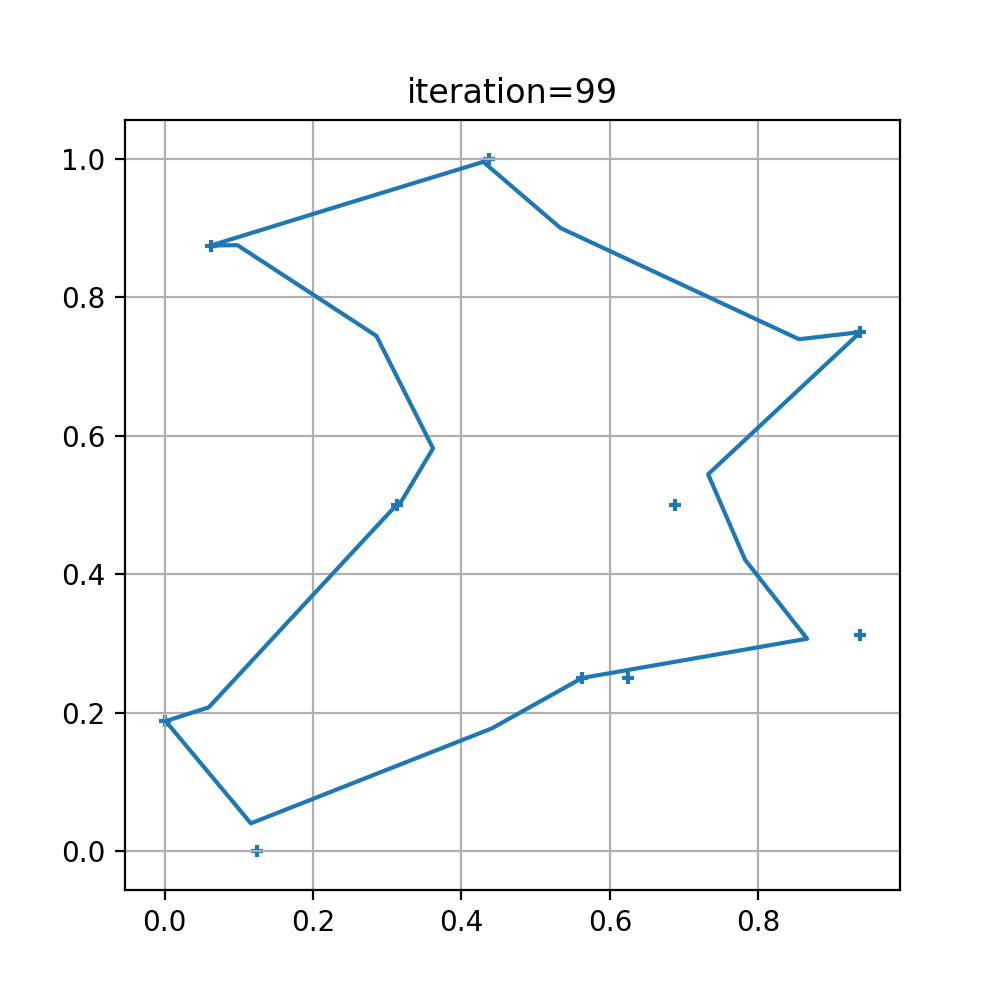
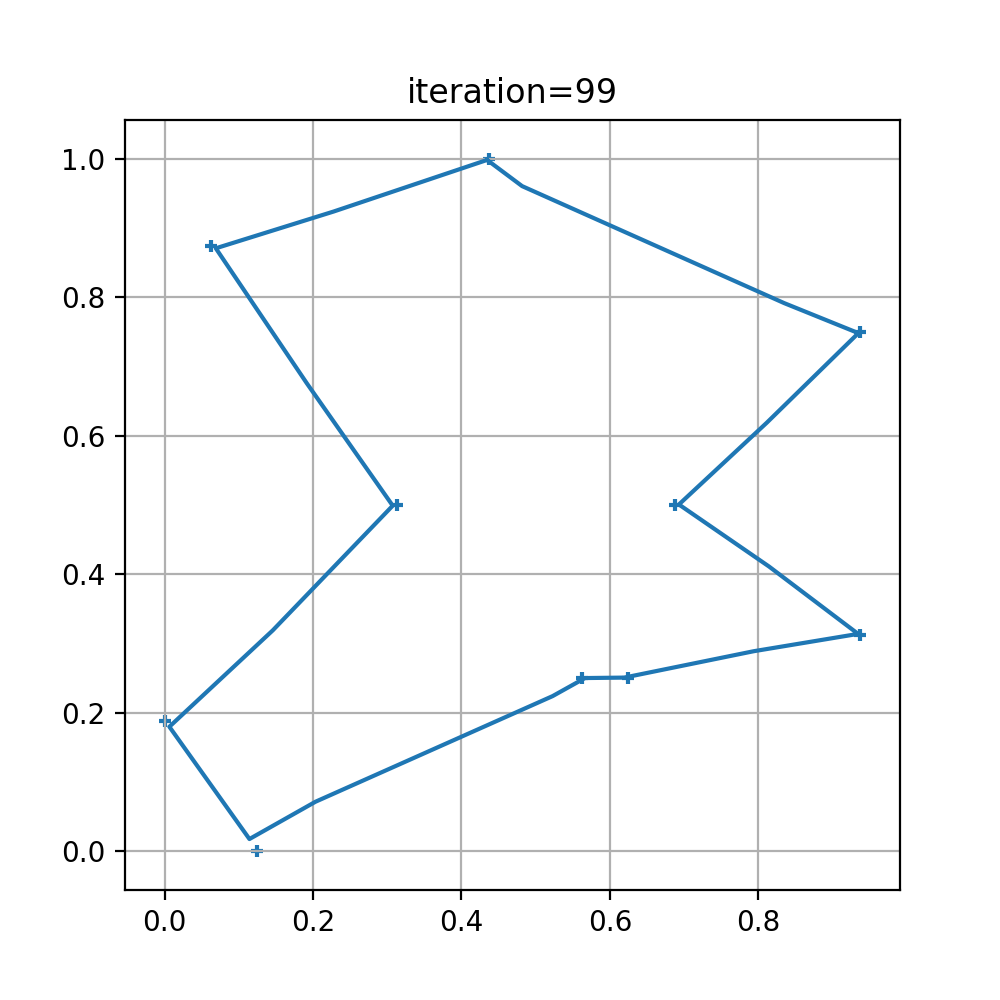
enhanced som g func

diff --git a/self_organizing_map.py b/self_organizing_map.py
@@ -6,18 +6,29 @@ import os
 window_size = 5
 dpi = 100
 node_radius = 0.1
+# b_init = 10
+# b_growth = 1.005
+# b_ceil = 1000
+
 b_init = 10
-b_growth = 1.005
-b_ceil = 1000
-mu = 1.0
+alpha = 0.03
+# b_ceil = 1000
+# mu = 1.0
+mu = 0.6
 iter_lim = 501
 record_moment = [1, 16, 31, 51, 101, 201, 301, 401, 501]
 record = True
 
 
-def g_func(djj_star, l, beta):
+# def g_func(djj_star, l, beta):
+#     if djj_star < l:
+#         return (1 - djj_star / l)**beta
+#     return 0.0
+
+
+def g_func(djj_star, l, g):
     if djj_star < l:
-        return (1 - djj_star / l)**beta
+        return np.exp(-djj_star**2 / g**2)
     return 0.0
 
 
@@ -33,7 +44,7 @@ def calc_champ_node(band_array, city):
 
 
 def update_node(node, city, djj_star, beta):
-    delta_node = mu * g_func(djj_star, node_num / 2, beta) * (city - node)
+    delta_node = mu * g_func(djj_star, node_num * 0.2, beta) * (city - node)
     return delta_node
 
 
@@ -80,24 +91,26 @@ def som_begin(band_array, city_array):
                 file_path = dir_name + filename
                 plt.savefig(file_path)
             picked_city = city_array[i % city_num, :]
-            beta = np.amin([b_ceil, beta * b_growth])
             j_star = calc_champ_node(band_array, picked_city)
             band_array = update_band(band_array, picked_city, j_star, beta)
             circle_band = np.vstack((band_array, band_array[0, :]))
             plt.title("iteration=" + str(i))
             elastic_band.set_data(circle_band[:, 0], circle_band[:, 1])
+            # beta = np.amin([b_ceil, beta * b_growth])
+            beta = (1-alpha)*beta
             plt.pause(.001)
     else:
         i = 1
         while plt.get_fignums():
             picked_city = city_array[i % city_num, :]
-            beta = np.amin([b_ceil, beta * b_growth])
             j_star = calc_champ_node(band_array, picked_city)
             band_array = update_band(band_array, picked_city, j_star, beta)
             circle_band = np.vstack((band_array, band_array[0, :]))
             plt.title("iteration=" + str(i))
             elastic_band.set_data(circle_band[:, 0], circle_band[:, 1])
             i += 1
+            # beta = np.amin([b_ceil, beta * b_growth])
+            beta = (1-alpha)*beta
             plt.pause(.001)
 
 

diff --git a/config.py b/config.py
@@ -19,12 +19,13 @@ class ENConfig:
 class SOMConfig:
     read_file = True
     file_path = Files.path
-    city_file = Files.random_10_cities
+    city_file = Files.random_30_cities
     city_num = 30
 
 
 class GifMakerConfig:
-    __path = './results/random_10_cities/'
+    __path = './results/'
+    __problem_set = 'random_30_cities/'
     __en_path = 'elastic_nets/'
     __som_path = 'self_organizing_map/'
-    source_dir = __path + __en_path
+    source_dir = __path + __problem_set + __som_path

diff --git a/gif_maker.py b/gif_maker.py
@@ -29,5 +29,5 @@ for file_name in file_names:
     ims.append([im])
 
 ani = animation.ArtistAnimation(fig, ims)
-ani.save(source_dir + 'animation.gif', writer="imagemagick")
-# plt.show()
+# ani.save(source_dir + 'animation.gif', writer="imagemagick")
+plt.show()
